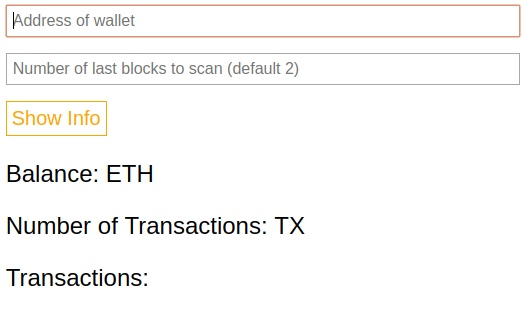
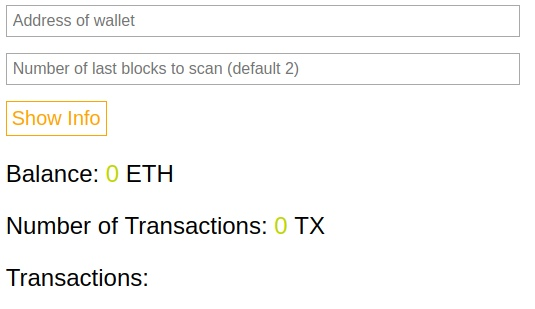
Correction: From Wei to Ether

diff --git a/index.html b/index.html
@@ -1,7 +1,7 @@
 <!DOCTYPE html>
 <html>
 <head>
-  	<title>Etherscan Info</title>
+  	<title>Etherscanner</title>
   	<link rel="stylesheet" type="text/css" href="./stylesheets/styles.css">
     <script src="./javascripts/index.js"></script>
 </head>
@@ -14,8 +14,8 @@
     </div>
 
     <div id="information">
-      <h3>Balance: <span id="balance"></span> ETH</h3>
-      <h3>Number of Transactions: <span id="number"></span> TX</h3>
+      <h3>Balance: <span id="balance">0</span> ETH</h3>
+      <h3>Number of Transactions: <span id="number">0</span> TX</h3>
       <h3>Transactions:</h3>
       <p><span id="tx"></span>
     </div>

diff --git a/javascripts/index.js b/javascripts/index.js
@@ -47,7 +47,7 @@ window.App = {
       if (!error) {
         console.log("BALANCE: ", balance.toNumber());
         var balance_element = document.getElementById("balance");
-        balance_element.innerHTML = balance;
+        balance_element.innerHTML = web3.fromWei(balance, 'ether');
       } else {
         console.log("ERROR: web3.eth.getBalance");
       }
